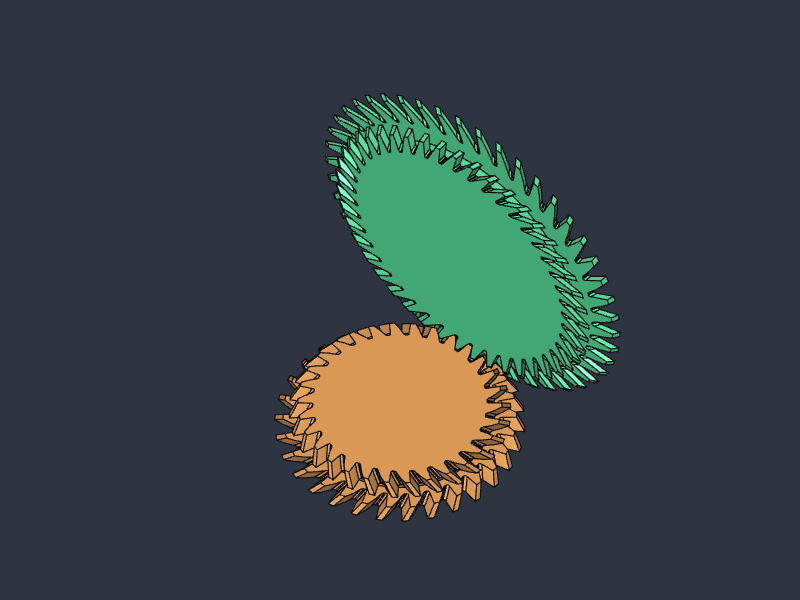
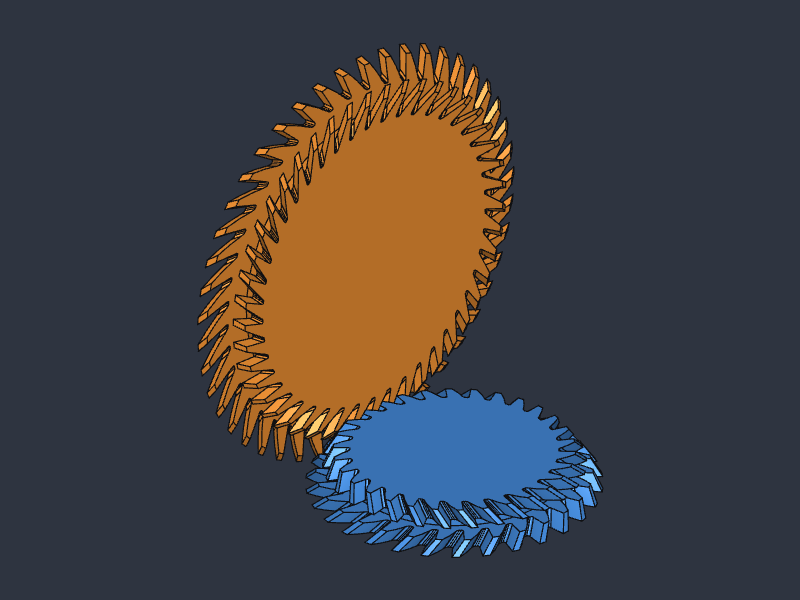
Gallery: crossed helical and chevron bevel (now built as named) on the front page and GALLERY.md; GALLERY.md's images and links fixed (they were written from the repo root)

diff --git a/docs/gears/GALLERY.md b/docs/gears/GALLERY.md
@@ -1,21 +1,23 @@
-## Gear types
+# Gear types gallery
 
 Every set below is one Gears feature built from a sketch, rendered in SolidCraft. Edit the sketch
 and the gears follow.
 
 | | Type | How you sketch it |
 |---|---|---|
-| <img src="docs/gears/img/types/spur.png" width="240" alt="Spur pair"> | **Spur** | Two touching pitch circles in one sketch |
-| <img src="docs/gears/img/types/helical.png" width="240" alt="Helical pair"> | **Helical** | Same as spur; set the helix angle and opposite hands |
-| <img src="docs/gears/img/types/herringbone.png" width="240" alt="Herringbone pair"> | **Herringbone** | Same as spur; V teeth with no axial thrust |
-| <img src="docs/gears/img/types/internal.png" width="240" alt="Ring gear with pinion"> | **Ring Gear (internal)** | The ring's pitch circle with the pinion's circle touching it from inside |
-| <img src="docs/gears/img/types/rack.png" width="240" alt="Rack and pinion"> | **Rack** | A line for the rack's pitch line, with the pinion's circle tangent to it |
-| <img src="docs/gears/img/types/compound.png" width="240" alt="Compound train"> | **Compound** | A shaft line with one circle per layer, in parallel sketch planes |
-| <img src="docs/gears/img/types/planetary.png" width="240" alt="Planetary set"> | **Planetary** | Concentric sun and ring circles plus one planet circle; the carrier is generated |
-| <img src="docs/gears/img/types/bevel-straight.png" width="240" alt="Straight bevel pair"> | **Bevel Pair, straight** | One side view: apex point, two shaft lines and a contact line that sets the ratio |
-| <img src="docs/gears/img/types/bevel-spiral.png" width="240" alt="Spiral bevel pair"> | **Bevel Pair, spiral** | The same side view, with the spiral style |
-| <img src="docs/gears/img/types/hypoid.png" width="240" alt="Hypoid pair"> | **Hypoid Pair** | The ring's pitch circle and the pinion's axis line, offset from the centre |
-| <img src="docs/gears/img/types/worm.png" width="240" alt="Worm and wheel"> | **Worm and Wheel** | The wheel's pitch circle and the worm's axis line in one sketch |
+| <img src="img/types/spur.png" width="240" alt="Spur pair"> | **Spur** | Two touching pitch circles in one sketch |
+| <img src="img/types/helical.png" width="240" alt="Helical pair"> | **Helical** | Same as spur; set the helix angle and opposite hands |
+| <img src="img/types/herringbone.png" width="240" alt="Herringbone pair"> | **Herringbone** | Same as spur; V teeth with no axial thrust |
+| <img src="img/types/internal.png" width="240" alt="Ring gear with pinion"> | **Ring Gear (internal)** | The ring's pitch circle with the pinion's circle touching it from inside |
+| <img src="img/types/rack.png" width="240" alt="Rack and pinion"> | **Rack** | A line for the rack's pitch line, with the pinion's circle tangent to it |
+| <img src="img/types/compound.png" width="240" alt="Compound train"> | **Compound** | A shaft line with one circle per layer, in parallel sketch planes |
+| <img src="img/types/planetary.png" width="240" alt="Planetary set"> | **Planetary** | Concentric sun and ring circles plus one planet circle; the carrier is generated |
+| <img src="img/types/bevel-straight.png" width="240" alt="Straight bevel pair"> | **Bevel Pair, straight** | One side view: apex point, two shaft lines and a contact line that sets the ratio |
+| <img src="img/types/bevel-spiral.png" width="240" alt="Spiral bevel pair"> | **Bevel Pair, spiral** | The same side view, with the spiral style |
+| <img src="img/types/bevel-chevron.png" width="240" alt="Chevron bevel pair"> | **Bevel Pair, chevron** | The same side view, with the chevron style (V teeth) |
+| <img src="img/types/hypoid.png" width="240" alt="Hypoid pair"> | **Hypoid Pair** | The ring's pitch circle and the pinion's axis line, offset from the centre |
+| <img src="img/types/worm.png" width="240" alt="Worm and wheel"> | **Worm and Wheel** | The wheel's pitch circle and the worm's axis line in one sketch |
+| <img src="img/types/crossed-helical.png" width="240" alt="Crossed helical pair"> | **Crossed Helical** | Two circles on axes that pass each other, their radii adding up to the distance between the shafts |
 
-The examples behind these renders are in [`examples/gears/`](examples/gears/README.md). See
-[gear types](docs/gears/gear-types.md) for every sketch slot.
+The examples behind these renders are in [`examples/gears/`](../../examples/gears/README.md). See
+[gear types](gear-types.md) for every sketch slot.

diff --git a/README.md b/README.md
@@ -28,7 +28,8 @@ Every type below is made from the Gears dialog. How to sketch each one is in the
 <table align="center">
 <tr><td align="center" width="25%"><img src="docs/gears/img/types/spur.png" width="200" alt="Spur"/><br/><b>Spur</b><br/><sub>a circle; touching circles mesh</sub></td><td align="center" width="25%"><img src="docs/gears/img/types/helical.png" width="200" alt="Helical"/><br/><b>Helical</b><br/><sub>a circle; helix angle per gear</sub></td><td align="center" width="25%"><img src="docs/gears/img/types/herringbone.png" width="200" alt="Herringbone"/><br/><b>Herringbone</b><br/><sub>a circle; V teeth</sub></td><td align="center" width="25%"><img src="docs/gears/img/types/internal.png" width="200" alt="Ring gear"/><br/><b>Ring gear</b><br/><sub>ring circle + pinion circle touching inside</sub></td></tr>
 <tr><td align="center" width="25%"><img src="docs/gears/img/types/rack.png" width="200" alt="Rack"/><br/><b>Rack</b><br/><sub>a pitch line + the pinion circle tangent to it</sub></td><td align="center" width="25%"><img src="docs/gears/img/types/compound.png" width="200" alt="Compound"/><br/><b>Compound</b><br/><sub>a shaft line + circles in parallel sketches</sub></td><td align="center" width="25%"><img src="docs/gears/img/types/planetary.png" width="200" alt="Planetary"/><br/><b>Planetary</b><br/><sub>sun and ring concentric + one planet</sub></td><td align="center" width="25%"><img src="docs/gears/img/types/bevel-straight.png" width="200" alt="Bevel, straight"/><br/><b>Bevel, straight</b><br/><sub>side view: two shaft lines meeting at the apex</sub></td></tr>
-<tr><td align="center" width="25%"><img src="docs/gears/img/types/bevel-spiral.png" width="200" alt="Bevel, spiral"/><br/><b>Bevel, spiral</b><br/><sub>the same side view; Style: Spiral</sub></td><td align="center" width="25%"><img src="docs/gears/img/types/hypoid.png" width="200" alt="Hypoid"/><br/><b>Hypoid</b><br/><sub>ring circle + the pinion axis line, offset</sub></td><td align="center" width="25%"><img src="docs/gears/img/types/worm.png" width="200" alt="Worm and wheel"/><br/><b>Worm and wheel</b><br/><sub>wheel circle + the worm axis line in its plane</sub></td></tr>
+<tr><td align="center" width="25%"><img src="docs/gears/img/types/bevel-spiral.png" width="200" alt="Bevel, spiral"/><br/><b>Bevel, spiral</b><br/><sub>the same side view; Style: Spiral</sub></td><td align="center" width="25%"><img src="docs/gears/img/types/bevel-chevron.png" width="200" alt="Bevel, chevron"/><br/><b>Bevel, chevron</b><br/><sub>the same side view; Style: Chevron</sub></td><td align="center" width="25%"><img src="docs/gears/img/types/hypoid.png" width="200" alt="Hypoid"/><br/><b>Hypoid</b><br/><sub>ring circle + the pinion axis line, offset</sub></td><td align="center" width="25%"><img src="docs/gears/img/types/worm.png" width="200" alt="Worm and wheel"/><br/><b>Worm and wheel</b><br/><sub>wheel circle + the worm axis line in its plane</sub></td></tr>
+<tr><td align="center" width="25%"><img src="docs/gears/img/types/crossed-helical.png" width="200" alt="Crossed helical"/><br/><b>Crossed helical</b><br/><sub>two circles on axes that pass each other</sub></td></tr>
 </table>
 
 ### Every type turning
